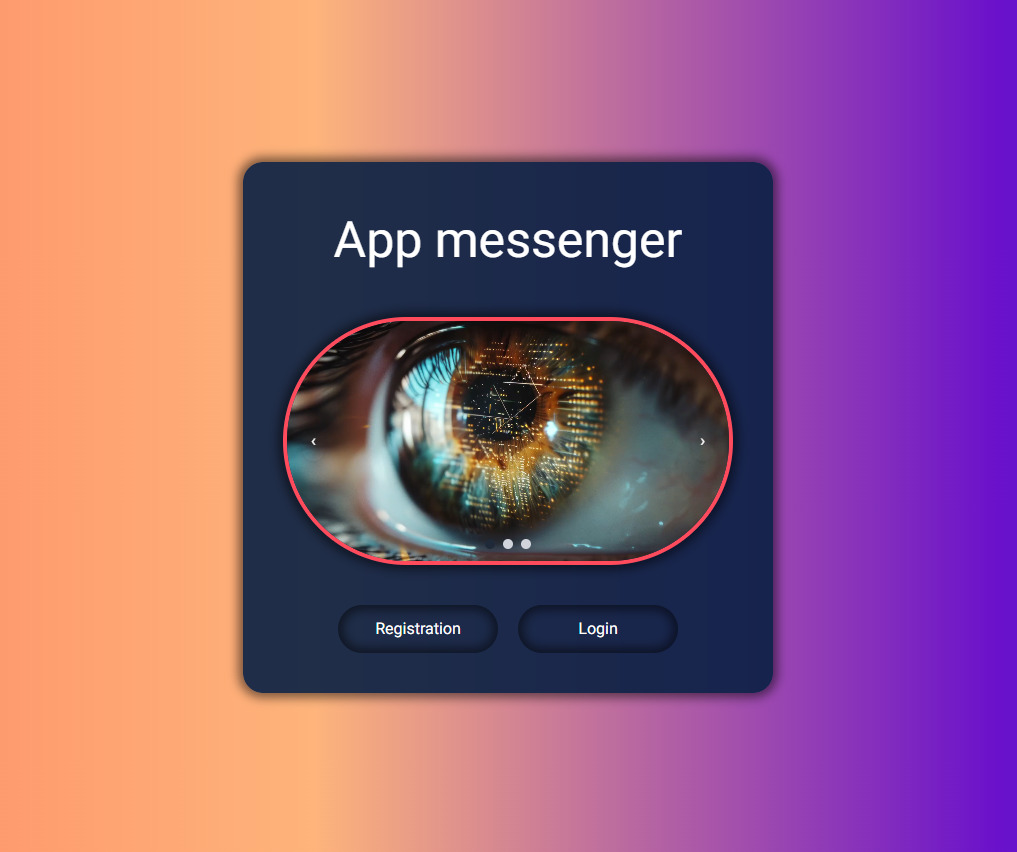
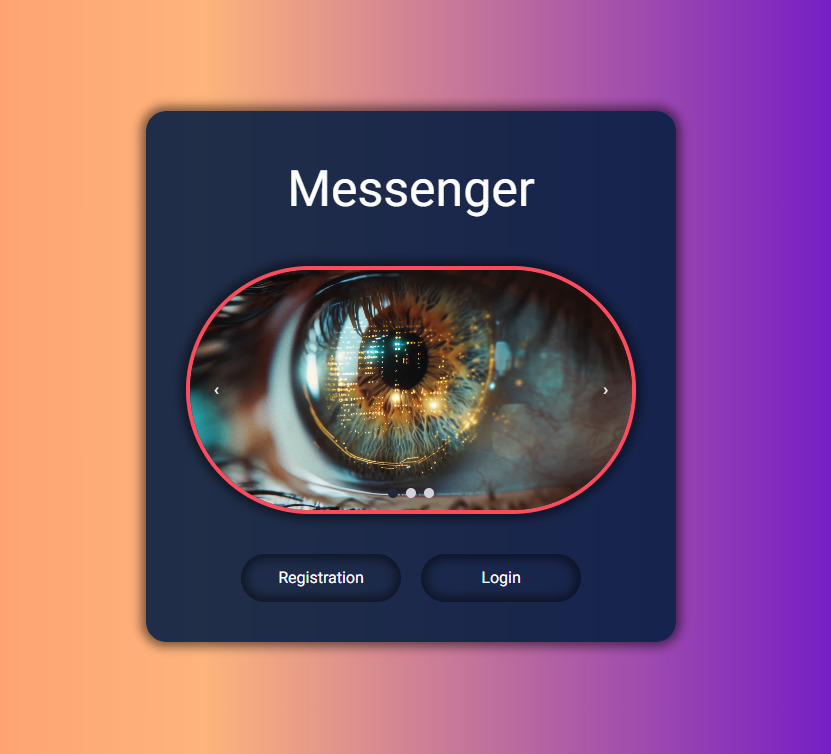
fixed welcome page and readme

Changed region(s): [[0.1504, 0.122, 0.8424, 0.8846]]

diff --git a/src/components/WelcomeLogout.tsx b/src/components/WelcomeLogout.tsx
@@ -18,7 +18,7 @@ const WelcomeLogout: React.FC = () => {
 
   return (    
       <div className='flex flex-col justify-center items-center gap-10  rounded-[20px] p-10 bg-form shadow-custom'>
-        <h1 className='text-[30px] md:text-[50px]'>App messenger</h1>
+        <h1 className='text-[30px] md:text-[50px]'>Messenger</h1>
         <div className='flex justify-center items-center rounded-full overflow-hidden w-[250px] h-[136px] md:w-[450px] md:h-[248px] xl:w-[500px] xl:h-[276px] border-4 border-interaction shadow-custom'>
           <Slider/>
         </div>  
